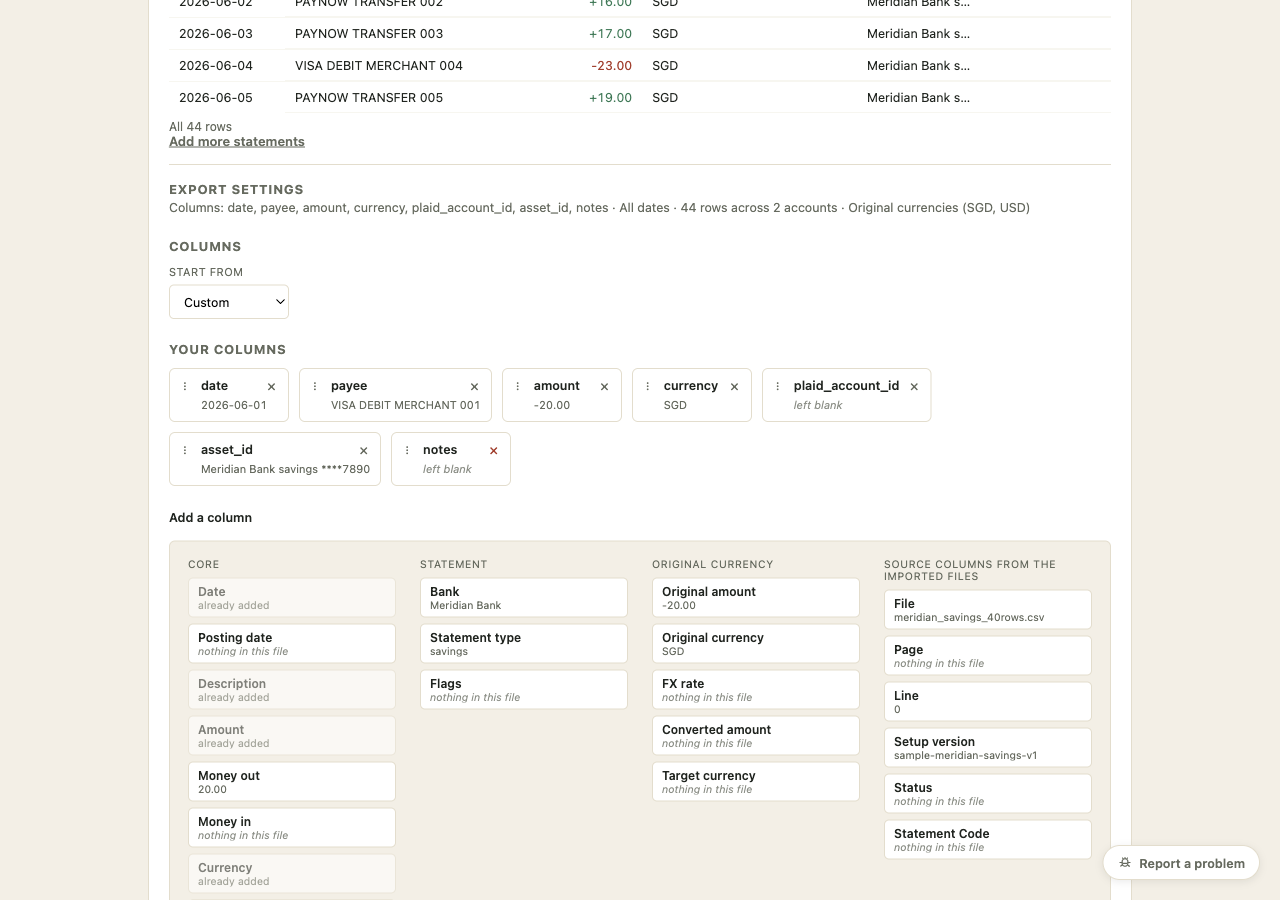
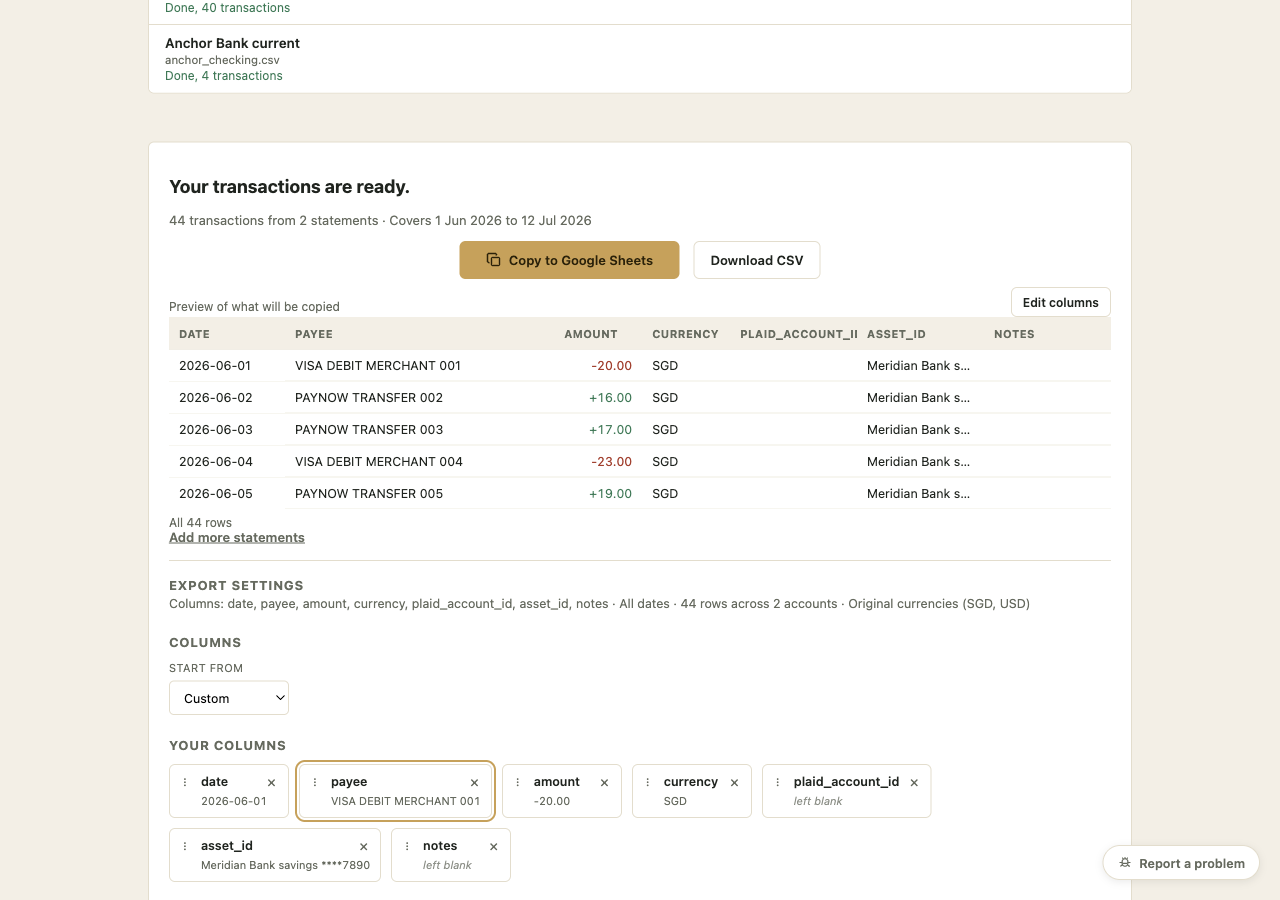
Column builder: the cards are the order
A drag moved the cards on screen but the saved column list could
disagree with them (index arithmetic, and a release outside the handle
never committed). The order is now read straight from the cards after a
drag or keyboard move, pointer listeners sit on the document, and a
keyboard-moved card keeps focus so the next arrow keeps moving it. The
presets e2e now drags with the real mouse and asserts cards, preview and
summary agree.

Changed region(s): [[0.0938, 0.0, 0.9062, 1.0]]

diff --git a/extension/src/ui/preset-editor.js b/extension/src/ui/preset-editor.js
@@ -140,6 +140,22 @@ export function moveColumn(preset, fromIndex, toIndex) {
   return { ...preset, columns };
 }
 
+/**
+ * Put the visible columns in exactly this order (indices into preset.columns,
+ * as the builder's cards show them after a drag or a keyboard move); columns
+ * that are switched off keep their place after them. Reading the order back
+ * from the cards themselves means the saved list can never disagree with
+ * what is on screen, which index arithmetic on a move did.
+ */
+export function reorderColumns(preset, orderedIndices) {
+  const picked = new Set(orderedIndices);
+  const columns = [
+    ...orderedIndices.map((i) => preset.columns[i]).filter(Boolean),
+    ...preset.columns.filter((c, i) => !picked.has(i)),
+  ];
+  return { ...preset, columns };
+}
+
 export function renameColumn(preset, index, name) {
   const columns = preset.columns.map((c, i) => (i === index ? { ...c, name } : c));
   return { ...preset, columns };
@@ -341,6 +357,9 @@ export function resolveWorkingPreset(storedWorking, presets, startFromIdx) {
 // instance, not a fixed string, or their <label for> would bind to whichever
 // instance happens to be first in the DOM.
 let instanceCounter = 0;
+// A keyboard move re-renders the cards; the moved card must keep focus so
+// the next Alt+arrow keeps moving it. Set by the keydown, consumed on render.
+let pendingFocusPos = null;
 
 /**
  * @param {boolean} [tableOnly] - Simple B's Home result table: just the live
@@ -449,6 +468,7 @@ export function renderPresetEditor({ container, preset, sampleRows = [], profile
     card.setAttribute('role', 'listitem');
     card.tabIndex = 0;
     card.dataset.field = column.field;
+    card.dataset.realIdx = String(realIdx);
     card.dataset.test = 'column-card';
 
     const handle = document.createElement('button');
@@ -520,7 +540,11 @@ export function renderPresetEditor({ container, preset, sampleRows = [], profile
       const nextPos = pos + (e.key === 'ArrowLeft' ? -1 : 1);
       if (nextPos < 0 || nextPos >= visibleIndices.length) return;
       e.preventDefault();
-      onChange(moveColumn(preset, realIdx, visibleIndices[nextPos]));
+      const order = [...visibleIndices];
+      order.splice(pos, 1);
+      order.splice(nextPos, 0, realIdx);
+      pendingFocusPos = nextPos;
+      onChange(reorderColumns(preset, order));
     });
 
     // Rule 2, pointer: pointerdown/move/up on the handle, with the DOM node
@@ -548,21 +572,25 @@ export function renderPresetEditor({ container, preset, sampleRows = [], profile
         if (next && pastEnd(next.getBoundingClientRect(), ev)) { cardList.insertBefore(card, next.nextSibling); }
       };
       const onUp = () => {
-        handle.removeEventListener('pointermove', onMove);
-        handle.removeEventListener('pointerup', onUp);
-        handle.removeEventListener('pointercancel', onUp);
+        document.removeEventListener('pointermove', onMove);
+        document.removeEventListener('pointerup', onUp);
+        document.removeEventListener('pointercancel', onUp);
         card.classList.remove('dragging');
         const endPos = [...cardList.children].indexOf(card);
         if (endPos === startPos || endPos < 0) return;
-        onChange(moveColumn(preset, realIdx, visibleIndices[endPos]));
+        // The cards ARE the order: read it back rather than recomputing it.
+        onChange(reorderColumns(preset, [...cardList.children].map((c) => Number(c.dataset.realIdx))));
       };
-      handle.addEventListener('pointermove', onMove);
-      handle.addEventListener('pointerup', onUp);
-      handle.addEventListener('pointercancel', onUp);
+      // On the document, not the handle: a release outside the handle (or a
+      // pointer capture that never took) must still commit the order.
+      document.addEventListener('pointermove', onMove);
+      document.addEventListener('pointerup', onUp);
+      document.addEventListener('pointercancel', onUp);
     });
 
     cardList.appendChild(card);
   });
+
   if (!visibleIndices.length) {
     const empty = document.createElement('p');
     empty.className = 'pdf-anchor-hint';
@@ -570,6 +598,11 @@ export function renderPresetEditor({ container, preset, sampleRows = [], profile
     cardList.appendChild(empty);
   }
   container.appendChild(cardList);
+  // Only now is the list in the document, so focus() can take.
+  if (pendingFocusPos != null) {
+    cardList.children[pendingFocusPos]?.focus();
+    pendingFocusPos = null;
+  }
 
   // ---- Part 2 rule 3: "Add a column" ----------------------------------
   // Every field this app can produce, grouped, each showing its own sample

diff --git a/extension/test/preset-editor.test.js b/extension/test/preset-editor.test.js
@@ -1,7 +1,7 @@
 import { test } from 'node:test';
 import assert from 'node:assert/strict';
 import {
-  newPreset, addColumn, removeColumn, moveColumn, renameColumn, setOption, validatePreset,
+  newPreset, addColumn, removeColumn, moveColumn, reorderColumns, renameColumn, setOption, validatePreset,
   toggleColumn, activeColumns, dedupeColumns, collectExtraFields, humanizeExtraField,
   STANDARD_FIELDS, SOURCE_FIELDS,
   presetSettingsEqual, presetPickerLabel, resolveWorkingPreset, setColumnValue,
@@ -286,4 +286,16 @@ test('rule 3/4: setColumnValue changes one fixed-text value, renameColumn its he
   p = setColumnValue(p, 1, 'y');
   p = renameColumn(p, 0, 'asset');
   assert.deepEqual(p.columns.map((c) => [c.name, c.value]), [['asset', 'SC_Rach'], ['tag', 'y']]);
+});
+
+test('reorderColumns takes the on-screen order verbatim and keeps switched-off columns after it', () => {
+  const p = { columns: [
+    { field: 'date', name: 'Date' }, { field: 'description_raw', name: 'Description' },
+    { field: 'balance', name: 'Balance', enabled: false }, { field: 'amount', name: 'Amount' }, { field: 'currency', name: 'Currency' },
+  ] };
+  const next = reorderColumns(p, [0, 1, 3, 4]);
+  assert.deepEqual(next.columns.map((c) => c.field), ['date', 'description_raw', 'amount', 'currency', 'balance']);
+  const moved = reorderColumns(p, [0, 1, 4, 3]);
+  assert.deepEqual(moved.columns.map((c) => c.field), ['date', 'description_raw', 'currency', 'amount', 'balance']);
+  assert.deepEqual(p.columns.map((c) => c.field), ['date', 'description_raw', 'balance', 'amount', 'currency'], 'input untouched');
 });
